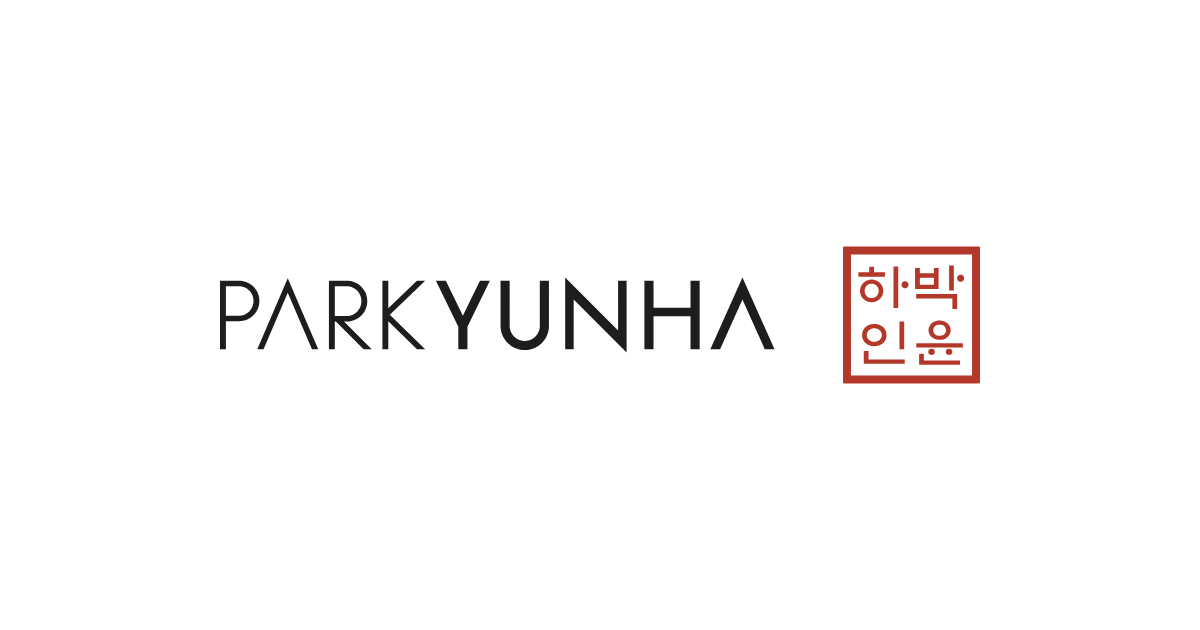
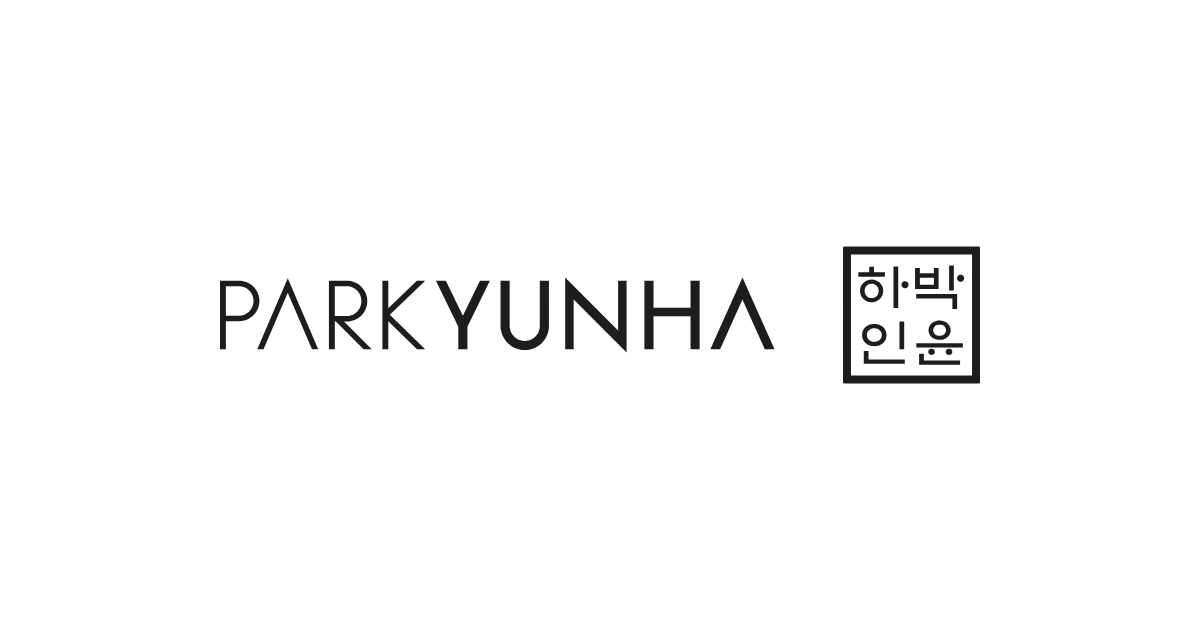
brand: 낙관을 먹색으로 — 평소에는 흑백, 인주는 값만 남긴다
인주색 낙관은 클래식하지만 무채색 사이트에서 붉은색이 많이 튄다. 평소에 쓰는 자리는 모두
흑백으로 바꾸고, 로고 키트의 인주색 #b4382a 는 --ref-cinnabar-500 에 값만 남겨 인쇄물 같은
특별한 자리에서만 쓴다.

- tokens.css: --color-seal 을 먹색으로 — 밝게 ref-gray-800(#1d1d1f) · 어둡게 ref-gray-50(#f5f5f7).
  푸터 서명이 밝게는 검정 주문, 다크는 흰 바탕에 글자를 비운 백문으로 찍힌다
- 파비콘 · 앱 아이콘(apple-icon · icons/192 · 512 · maskable · favicon.ico 16/32/48): 먹색 바탕에 흰 글자.
  예전에는 백문의 글자 자리가 투명해서 iOS 홈 화면에서 검게 채워졌다 — 이제 흰색으로 채운다
- icon.svg: 같은 그림에 다크 탭에서는 밝은 바탕 + 먹색 글자(prefers-color-scheme)
- opengraph-image.png: 주문을 먹색으로(워드마크와 같은 잉크)
- Seal.tsx · brand.module.css 주석, 설계서 색 표 · 브랜드 절, CLAUDE.md

글자 윤곽은 바꾸지 않았다(EBS 훈민정음체 — 색과 크기만).

Claude-Session: https://claude.ai/code/session_01CaSFRVXeki9S51e7Xs1LD2

Changed region(s): [[0.6783, 0.3921, 0.8325, 0.6333]]

diff --git a/app/components/brand/Seal.tsx b/app/components/brand/Seal.tsx
@@ -2,10 +2,11 @@ import type { SVGProps } from "react";
 
 /**
  * 낙관 — 성명인 '박윤하인' (EBS 훈민정음체, 오른쪽 줄부터 박·윤 / 하·인).
- *  - "ju"         주문 R: 붉은 글자 + 테두리. 서명·워터마크용, 48px 이상
- *  - "baek"       백문 SB: 붉은 바탕에 흰 글자. 아이콘·아바타·어두운 배경용
+ *  - "ju"         주문 R: 글자 + 테두리. 서명·워터마크용, 48px 이상
+ *  - "baek"       백문 SB: 칠한 바탕에 글자를 비움. 아이콘·아바타·어두운 배경용
  *  - "baek-small" 백문 SB 작은 크기용(칸을 키움). 48px 이하
- * 색은 인주색(토큰 --color-seal)이 기본. 어두운 사진 위 워터마크만 color="#ffffff" 를 허용한다.
+ * 색은 토큰 --color-seal(평소엔 먹색 — 밝게 #1d1d1f · 어둡게 #f5f5f7)이 기본. 인주색 #b4382a(--ref-cinnabar-500)는
+ * 인쇄물 같은 특별한 자리에만. 어두운 사진 위 워터마크만 color="#ffffff" 를 허용한다.
  * 글자 윤곽은 EBS 훈민정음체 그대로 (크기 · 위치만 조정, 변형 금지 — 글꼴 라이선스).
  * 최소 48px, 그 아래는 "baek-small". title 이 null 이면 장식(aria-hidden).
  */

diff --git a/app/components/brand/brand.module.css b/app/components/brand/brand.module.css
@@ -6,7 +6,8 @@
    치수는 대문자 높이 --brand-cap 하나에서 나온다:
      워드마크 높이 = cap × 1.09 (오버슈트)   도장 = cap × 2   사이 = cap × 1
    - 워드마크는 currentColor → 글자색 토큰(fg)을 따른다. 다크에서 invert 하지 않는다.
-   - 낙관은 밝은 배경에서 주문(붉은 글자 + 테두리), 어두운 배경에서 백문(붉은 바탕에 흰 글자).
+   - 낙관은 밝은 배경에서 주문(글자 + 테두리), 어두운 배경에서 백문(칠한 바탕에 글자를 비움).
+     색은 --color-seal — 평소에는 먹색(흑백)이라 밝게는 검정, 어둡게는 흰색으로 찍힌다.
      주문은 종이 바탕이 있어야 살아나므로 다크에서는 백문으로 바꾼다 — 색이 아니라 모양이 바뀌는
      것이라 토큰이 아닌 .dark 범위로 고른다 (CSS 모듈이 .dark 를 지역 이름으로 바꾸지 않게 :global).
    - 서명은 대문자 24px 이상에서만 (작은 헤더는 워드마크만).

diff --git a/app/styles/tokens.css b/app/styles/tokens.css
@@ -41,7 +41,7 @@
   --ref-green-600: #16a34a;
   --ref-green-400: #4ade80;
 
-  /* 인주 — 낙관(주문 R · 백문 SB) 전용 */
+  /* 인주 — 낙관의 전통 색. 평소에는 쓰지 않는다(낙관은 먹색, --color-seal) — 인쇄물 · 특별한 자리용으로 값만 남긴다 */
   --ref-cinnabar-500: #b4382a;
 }
 
@@ -91,8 +91,8 @@
 
   /* 브랜드 */
   --color-seal: var(
-    --ref-cinnabar-500
-  ); /* 낙관에만 — 버튼 · 링크 강조색으로 쓰지 않는다 */
+    --ref-gray-800
+  ); /* 낙관 — 평소에는 먹색(흑백, 글자색과 같은 값). 버튼 · 링크 강조색으로 쓰지 않는다 */
 
   /* 글꼴 — 라틴은 Avenir Next(Apple 기기) / Nunito Sans, 한글은 Pretendard */
   --font-sans:
@@ -232,6 +232,8 @@
   --color-control-hover: var(--ref-gray-600);
   --color-control-fg: var(--ref-gray-300);
   --color-positive: var(--ref-green-400);
+
+  --color-seal: var(--ref-gray-50);
 }
 
 @media (prefers-reduced-motion: reduce) {

diff --git a/docs/design-system.md b/docs/design-system.md
@@ -50,7 +50,7 @@
 | `control` / `control-fg`           | #f5f5f7 / #6e6e73     | #2c2c2e / #a1a1a6 | 갤러리 화살표 · 영상 단추                 |
 | `media-control` / `-hover` / `-fg` | 검정 50% / 66% / #fff | 같음              | 영상 위 재생 · 일시정지 단추              |
 | `positive`                         | #16a34a               | #4ade80           | 확인 표시(✓) 같은 상태 — 버튼 · 링크 금지 |
-| `seal`                             | #b4382a               | #b4382a           | 낙관 전용                                 |
+| `seal`                             | #1d1d1f               | #f5f5f7           | 낙관 — 평소엔 먹색(흑백)                  |
 
 - 검정 단추(CTA · 툴팁)는 `bg-fg text-canvas` — 잉크 색을 바탕으로 쓴다. 다크에서는 저절로 뒤집힌다.
 - Tailwind 기본 팔레트는 `tokens.css` 의 `--color-*: initial;` 로 지웠다. `gray-500` · `white` 같은 클래스는 CSS 가 생기지 않는다.
@@ -246,14 +246,15 @@ CSS 모듈은 `@reference "../../globals.css";` 를 맨 위에 두면 `@variant 
 
 로고 키트 2판의 규칙을 `brand.module.css` 가 CSS 로 들고 있다. 치수는 대문자 높이 `--brand-cap` 하나에서 나온다 — 워드마크 높이 = cap × 1.09, 도장 = cap × 2, 사이 = cap × 1.
 
-| 자리               | 부품                                                                                | 값                                                                                              |
-| ------------------ | ----------------------------------------------------------------------------------- | ----------------------------------------------------------------------------------------------- |
-| 헤더               | `Logo`(링크 + `Wordmark`)                                                           | 대문자 16px, 글자색 `fg`. 상자 높이 80 은 옛 로고와 같아 내비 자리가 그대로                     |
-| 푸터               | `Signature`(워드마크 + 낙관)                                                        | 대문자 24 · 도장 48 · 사이 24. 밝은 배경 주문(붉은 글자 + 테두리), 다크 백문(붉은 바탕 흰 글자) |
-| 파비콘 · 앱 아이콘 | `app/favicon.ico` · `icon.svg` · `apple-icon.png` · `manifest.ts` + `public/icons/` | 백문 (작은 크기용 판)                                                                           |
-| 링크 미리보기      | `app/opengraph-image.png`                                                           | 1200 × 630 밝은 판 — 모든 페이지 공통. 제목 들어간 글별 OG 는 나중 일                           |
+| 자리               | 부품                                                                                | 값                                                                                          |
+| ------------------ | ----------------------------------------------------------------------------------- | ------------------------------------------------------------------------------------------- |
+| 헤더               | `Logo`(링크 + `Wordmark`)                                                           | 대문자 16px, 글자색 `fg`. 상자 높이 80 은 옛 로고와 같아 내비 자리가 그대로                 |
+| 푸터               | `Signature`(워드마크 + 낙관)                                                        | 대문자 24 · 도장 48 · 사이 24. 밝은 배경 주문(글자 + 테두리), 다크 백문(바탕에 글자를 비움) |
+| 파비콘 · 앱 아이콘 | `app/favicon.ico` · `icon.svg` · `apple-icon.png` · `manifest.ts` + `public/icons/` | 백문 작은 판 — 먹색 바탕 흰 글자                                                            |
+| 링크 미리보기      | `app/opengraph-image.png`                                                           | 1200 × 630 밝은 판 — 모든 페이지 공통. 제목 들어간 글별 OG 는 나중 일                       |
 
-- 워드마크는 `currentColor` 라 다크에서 `invert` 하지 않는다. 낙관 색은 `seal` 토큰 하나.
+- 워드마크는 `currentColor` 라 다크에서 `invert` 하지 않는다. 낙관 색은 `seal` 토큰 하나 — 평소에는 먹색(흑백)이라 밝게는 검정, 어둡게는 흰색으로 찍힌다. 로고 키트의 인주색 #b4382a 는 `--ref-cinnabar-500` 에 값만 남겨 두고 인쇄물 같은 특별한 자리에서만 쓴다.
+- 파비콘 `icon.svg` 는 다크 탭에서 밝은 바탕에 먹색 글자로 바뀐다(`prefers-color-scheme`). PNG 아이콘은 먹색 바탕에 흰 글자 하나.
 - 규칙: 서명은 대문자 24px 이상에서만(작은 헤더는 워드마크만), 도장 둘레 여백은 도장의 ⅛ 이상, 글꼴 윤곽은 손대지 않는다(EBS 훈민정음체 라이선스).
 
 ## 남은 일

diff --git a/CLAUDE.md b/CLAUDE.md
@@ -12,7 +12,7 @@ Next.js 16 (App Router) · React 19 · Tailwind CSS 4 · MDX. 설계서는 `docs
 - Tailwind 는 쓰되 억지로 쓰지 않는다. 상태(`[data-*]`) · keyframes · 컨테이너 쿼리 · 부품 토큰은 CSS 모듈, MDX 본문과 페이지 전체 규칙은 `app/styles/*.css`. 한 요소의 클래스가 한 줄을 넘거나 같은 임의값이 두 번 넘게 나오면 CSS 로 옮긴다.
 - 움직임은 토큰(`--ease-reveal` · `--reveal-*` · `--duration-*`)으로. 움직임 줄이기 설정을 지킨다.
 - 그림은 `Figure`, 갤러리는 `Gallery`(사진 · 영상, `aspect` 프리셋, 내려받기 없음). `AppleImage` · `HeroImage` · `YoutubeIframe` · `AppleGallery` 는 기존 글을 위한 감싸개.
-- 브랜드는 `app/components/brand/` — 헤더 `Logo`(워드마크), 푸터 `Signature`(워드마크 + 낙관). 치수는 `brand.module.css` 의 `--brand-cap`. 낙관 글꼴 윤곽은 손대지 않는다(EBS 라이선스).
+- 브랜드는 `app/components/brand/` — 헤더 `Logo`(워드마크), 푸터 `Signature`(워드마크 + 낙관). 치수는 `brand.module.css` 의 `--brand-cap`, 낙관 색은 `--color-seal`(평소엔 먹색 — 흑백). 낙관 글꼴 윤곽은 손대지 않는다(EBS 라이선스).
 - 글 metadata: `hidden: true` 면 목록 · sitemap 에서 빠진다, `updatedAt` 이 있으면 dateModified 로.
 - 스크롤 등장은 `data-reveal-children` · `data-reveal-stagger` · `data-reveal` 속성만 붙인다 (일은 `RevealOnScroll` 하나가 한다).
 
